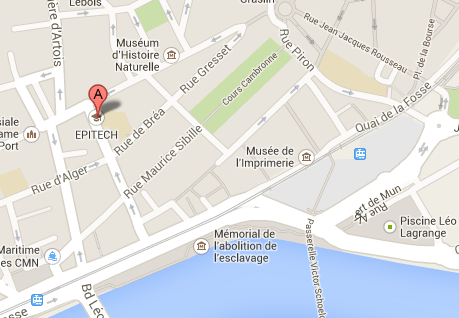
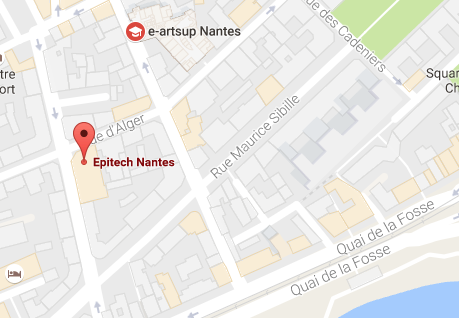
distingue epitech et eartsup

diff --git a/scripts/data/events.js b/scripts/data/events.js
@@ -30,7 +30,7 @@ var njEvents = [{
     date: new Date(2016, 8, 28), //month begin at 0
     time: '19',
     register: 'https://www.meetup.com/fr-FR/Nantes-Java-User-Group/events/233885243/',
-    place: 'epitech',
+    place: 'eartsup',
     subjects: [ {
         title: 'SonarLint et SonarQube pour détecter les bugs, code smells et vulnérabilités',
         length: '2h',
@@ -80,7 +80,7 @@ var njEvents = [{
     date: new Date(2016, 5, 14), //month begin at 0
     time: '19',
     register: 'http://www.meetup.com/fr-FR/Nantes-Java-User-Group/events/231323461/',
-    place: 'epitech',
+    place: 'eartsup',
     subjects: [ {
         title: 'Fetch your data with GraphQL',
         length: '15min',
@@ -128,7 +128,7 @@ var njEvents = [{
 	  date: new Date(2016, 4, 10), //month begin at 0
 	  time: '19',
 	  register: 'http://www.meetup.com/fr-FR/Nantes-Java-User-Group/events/230696969/',
-	  place: 'epitech',
+	  place: 'eartsup',
 	  subjects: [
 	      {
           title: 'DDD, P&A, ES, CQRS, ETC',
@@ -198,7 +198,7 @@ var njEvents = [{
 	  date: new Date(2016, 2, 17), //month begin at 0
 	  time: '19',
 	  register: 'http://guestli.st/409116',
-	  place: 'epitech',
+	  place: 'eartsup',
 	  subjects: [
 	      {
 	        title: 'REX: Audit de sécurité d\'applications Java',
@@ -238,7 +238,7 @@ var njEvents = [{
 	  date: new Date(2016, 2, 2), //month begin at 0
 	  time: '19',
 	  register: 'http://guestli.st/404760',
-	  place: 'epitech',
+	  place: 'eartsup',
 	  subjects: [
 	      {
 	        title: "Vert.x - Sprechen vous reactive fanta'stico ?",
@@ -344,7 +344,7 @@ var njEvents = [{
 	  date: new Date(2015, 11, 15), //month begin at 0
 	  time: '19',
 	  register: 'http://guestli.st/398028',
-	  place: 'epitech',
+	  place: 'eartsup',
 	  subjects: [
 	      {
 	        title: "Livrer chaque jour ce qui est prêt",
@@ -389,7 +389,7 @@ var njEvents = [{
 	  date: new Date(2015, 10, 23), //month begin at 0
 	  time: '19',
 	  register: 'http://guestli.st/350382',
-	  place: 'epitech',
+	  place: 'eartsup',
 	  subjects: [
 	      {
 	        title: "REX docker sur la mise d'une forge logicielle et ALM",
@@ -433,7 +433,7 @@ var njEvents = [{
 	  date: new Date(2015, 9, 13), //month begin at 0
 	  time: '19',
 	  register: 'http://guestli.st/346224',
-	  place: 'epitech',
+	  place: 'eartsup',
 	  subjects: [
 	      {
 	        title: "Ajoutez de la reconnaissance d'écriture à votre webapp grâce à Polymer",
@@ -477,7 +477,7 @@ var njEvents = [{
 	  date: new Date(2015, 8, 24), //month begin at 0
 	  time: '19',
 	  register: 'https://guestlistapp.com/events/341355',
-	  place: 'epitech',
+	  place: 'eartsup',
 	  subjects: [
 	      {
 	        title: "Restitution du Hackathon des communautés nantaises de développeurs",
@@ -555,7 +555,7 @@ var njEvents = [{
     date: new Date(2015, 4, 11), //month begin at 0
     time: '19',
     register: 'https://guestlistapp.com/events/324039',
-    place: 'epitech',
+    place: 'eartsup',
     subjects: [
       {
         title: "Java 8 en pratique",
@@ -656,7 +656,7 @@ var njEvents = [{
   date: new Date(2015, 2, 11),//month begin at 0
   time: '19',
   register: 'https://guestlistapp.com/events/312915',
-  place: 'epitech',
+  place: 'eartsup',
   subjects: [
       {
         title: "Google App Engine, déployer plus vite que son ombre !",
@@ -711,7 +711,7 @@ var njEvents = [{
   date: new Date(2015, 1, 16),//month begin at 0
   time: '19',
   register: 'https://guestlistapp.com/events/310620',
-  place: 'epitech',
+  place: 'eartsup',
   subjects: [
   {
     title: "Chef, oui Chef !",
@@ -797,7 +797,7 @@ var njEvents = [{
     date: new Date(2014, 11, 15),//month begin at 0
     time: '19',
     register: 'http://guestli.st/301611',
-    place: 'epitech',
+    place: 'eartsup',
     subjects: [
       {
         title: 'Le BigData NoBullShit: Cas d’utilisation chez Dictanova et Cityzen Data',
@@ -896,7 +896,7 @@ var njEvents = [{
     date: new Date(2014, 8, 29),//month begin at 0
     time: '19',
     register: 'http://guestli.st/286752',
-    place: 'epitech',
+    place: 'eartsup',
     subjects: [
       {
         title: 'Codehale Metrics',
@@ -934,7 +934,7 @@ var njEvents = [{
     time: '20',
     old_time: '19',
     register: 'http://guestli.st/265998',
-    place: 'epitech',
+    place: 'eartsup',
     subjects: [
       {
         title: 'France - Nigéria',
@@ -1018,7 +1018,7 @@ var njEvents = [{
     date: new Date(2014, 3, 14),//month begin at 0
     time: '19',
     register: 'http://guestli.st/245676',
-    place: 'epitech',
+    place: 'eartsup',
     subjects: [
       {
         title: 'Write Java Apps Faster Using SaaS Developer Environments',
@@ -1058,7 +1058,7 @@ var njEvents = [{
     date: new Date(2014, 2, 17),//month begin at 0
     time: '19',
     register: 'http://guestlistapp.com/events/234840',
-    place: 'epitech',
+    place: 'eartsup',
     subjects: [
       {
         title: 'Dart, c\'est aussi Angular',
@@ -1144,7 +1144,7 @@ var njEvents = [{
     date: new Date(2014, 0, 20),//month begin at 0
     time: '19',
     register: 'https://guestlistapp.com/events/218334',
-    place: 'epitech',
+    place: 'eartsup',
     subjects: [
       {
         title: 'JParsec',
@@ -1181,7 +1181,7 @@ var njEvents = [{
     date: new Date(2013, 11, 4),//month begin at 0
     time: '19',
     register: 'http://guestli.st/212961',
-    place: 'epitech',
+    place: 'eartsup',
     subjects: [
       {
         title: 'Grails dans les tranchées',

diff --git a/scripts/data/places.js b/scripts/data/places.js
@@ -32,13 +32,22 @@ var njPlaces = [
     capacity: 'http://goo.gl/maps/YbjKy'
   },
   {
-    id: 'epitech',
-    name: 'Epitech',
+    id: 'eartsup',
+    name: 'e-artsup / Epitech',
     address: '16-18 Rue Flandres Dunkerque',
-    city: '44100 Nantes',
-    maps: 'http://goo.gl/maps/DCQ1a',
+    city: '44000 Nantes',
+    maps: 'https://goo.gl/maps/tjQxgmswrVD2',
     twitter: 'EPITECHNantes',
     capacity: 130
+  },
+  {
+    id: 'epitech',
+    name: 'Epitech',
+    address: '5 Rue d\'Alger',
+    city: '44000 Nantes',
+    maps: 'https://goo.gl/maps/yRLvMRkNuzj',
+    twitter: 'EPITECHNantes',
+    capacity: 80
   },
   {
     id: 'hub_creatic',
